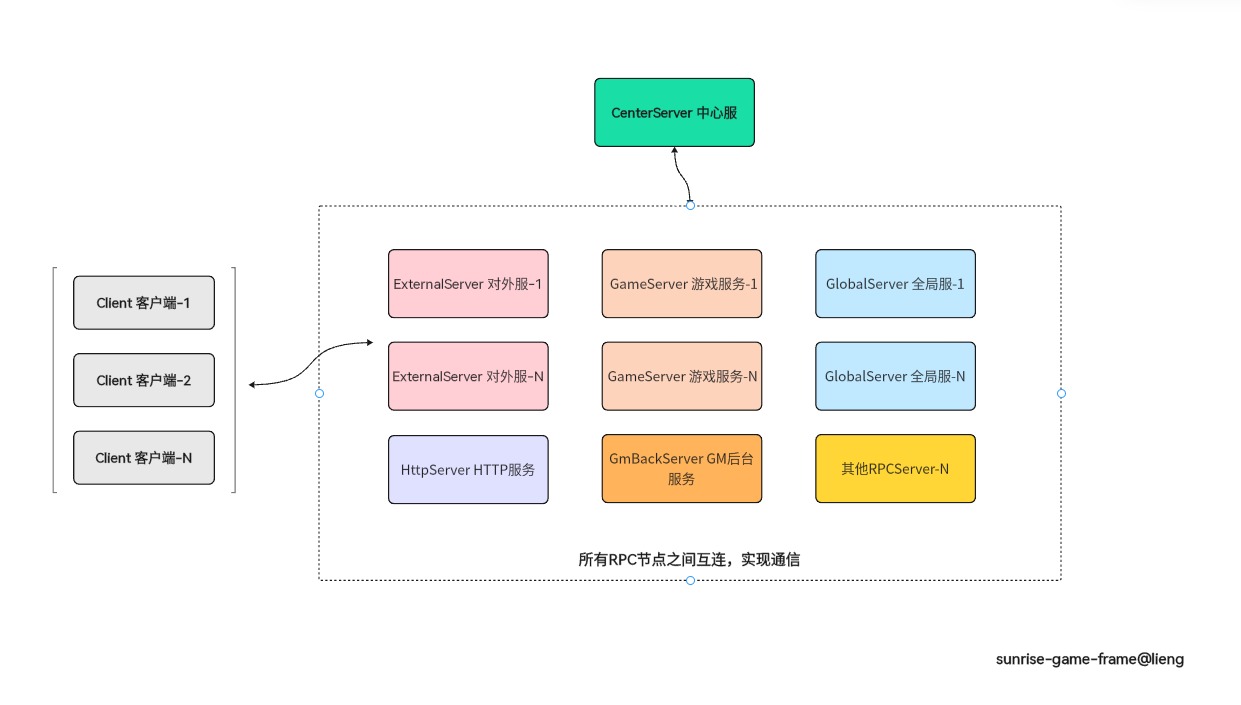
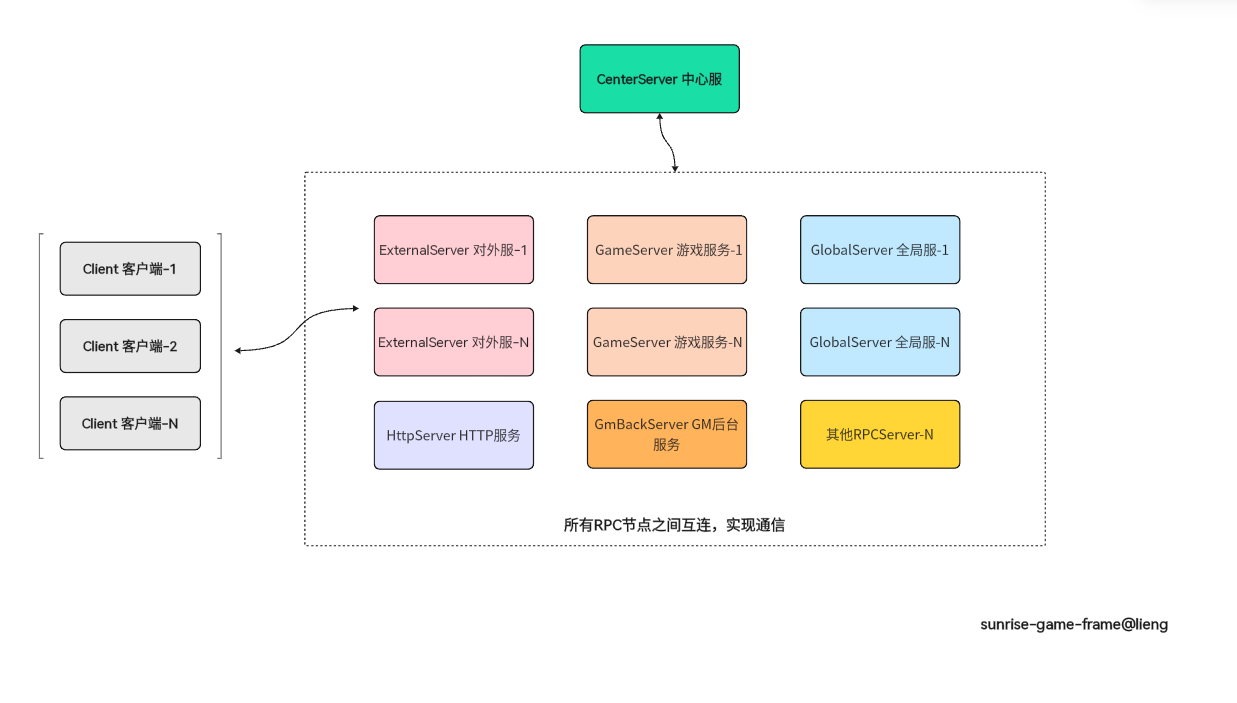
update README.md

diff --git a/README.md b/README.md
@@ -2,7 +2,7 @@
 
 ## 1. 项目简介
 
-`sunrise-game-frame` 是一个基于 Java 21 + Maven 的分布式游戏服务器框架示例工程，采用“中心服 + 对外服 + 游戏服 + 全局服 + HTTP 服务 + GM 后台 + 客户端/机器人”的多进程架构。框架不依赖任何第三方中间件，减少开发与部署的负担，只需具备 Java 环境即可运行。
+`sunrise-game-frame` 是一个基于 Java 21 + Maven 的分布式游戏服务器框架，采用“中心服 + 对外服 + 游戏服 + 全局服 + HTTP 服务 + GM 后台 + 客户端/机器人”的多进程架构。框架不依赖任何第三方中间件，减少开发与部署的负担，只需具备 Java 环境即可运行。
 
 项目主要特点：
 
@@ -34,10 +34,10 @@ sunrise-game-frame/
 ├─ admin-ui/                   # GM 后台前端页面
 ├─ start/                      # Windows / Linux 启动脚本
 ├─ tables/                     # Excel 配置表与 Luban 生成配置
-└─ docs/                       # 文档
+└─ docs/                       # 详细的架构文档
 ```
 
-### 2.2 Maven 模块
+### 2.2 Maven 模块 
 
 根 `pom.xml` 中定义了 5 个子模块：
 
@@ -51,7 +51,7 @@ sunrise-game-frame/
 
 ## 3. 框架架构图
 
-
+![sunrise-game-frame.png](https://files.seeusercontent.com/2026/04/14/5unS/sunrise-game-frame.png)
 
 ## 4. MVN 编译构建
 
@@ -67,6 +67,7 @@ sunrise-game-frame/
 由于这是聚合工程，直接在根目录执行 Maven 即可：
 
 ```bash
+mvn install
 mvn clean package
 ```
 
@@ -146,7 +147,19 @@ sh start/linux/create_sql_table.sh
 start/windows/server_run_all.bat
 ```
 
-启动顺序：
+### 6.3 Linux 一键启动
+
+```bash
+sh start/linux/server_run_all.sh
+```
+
+Linux 脚本使用 `pm2` 管理各个进程。需安装 PM2，并根据环境配置，开放端口。
+
+```
+npm install -g pm2
+```
+
+启动后会依次启动
 
 1. center
 2. external
@@ -154,20 +167,6 @@ start/windows/server_run_all.bat
 4. game
 5. http
 6. gmback
-
-### 6.3 Linux 一键启动
-
-```bash
-sh start/linux/server_run_all.sh
-```
-
-Linux 脚本基于 `pm2` 启动各个进程。
-
-需安装 PM2，并根据环境配置，开放端口。
-
-```
-npm install -g pm2
-```
 
 ### 6.4 GM后台登录
 
